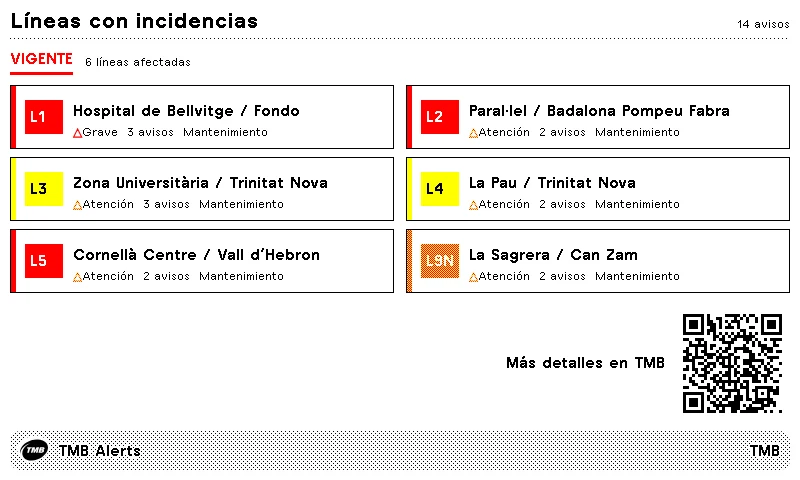
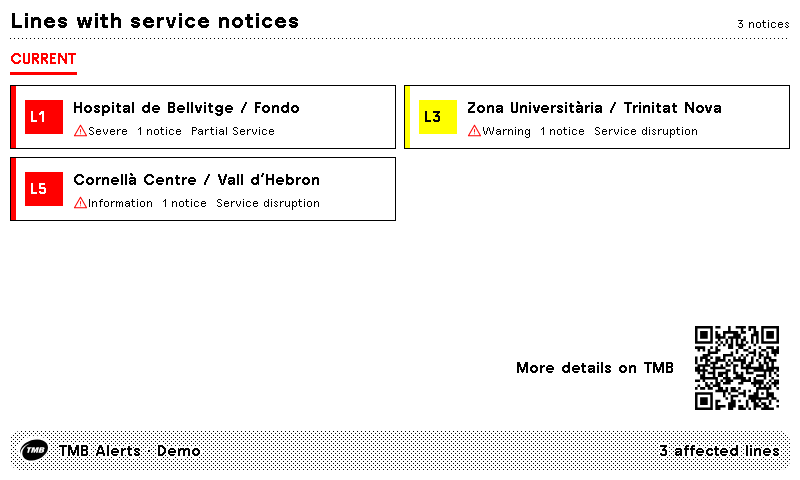
docs: regenerate plugin previews from current templates

diff --git a/TRMNL/README.md b/TRMNL/README.md
@@ -12,7 +12,7 @@ The plugin icon is stored in the TRMNL bundle and referenced from settings.yml.
 
 ## Previews
 
-Previews use synthetic service notices and do not represent live TMB status.
+Previews render the current Liquid templates with three synthetic service notices for L1, L3 and L5. They are demo images and do not represent live TMB status.
 
 | Full View | Half Horizontal View |
 |------------|----------------------|
